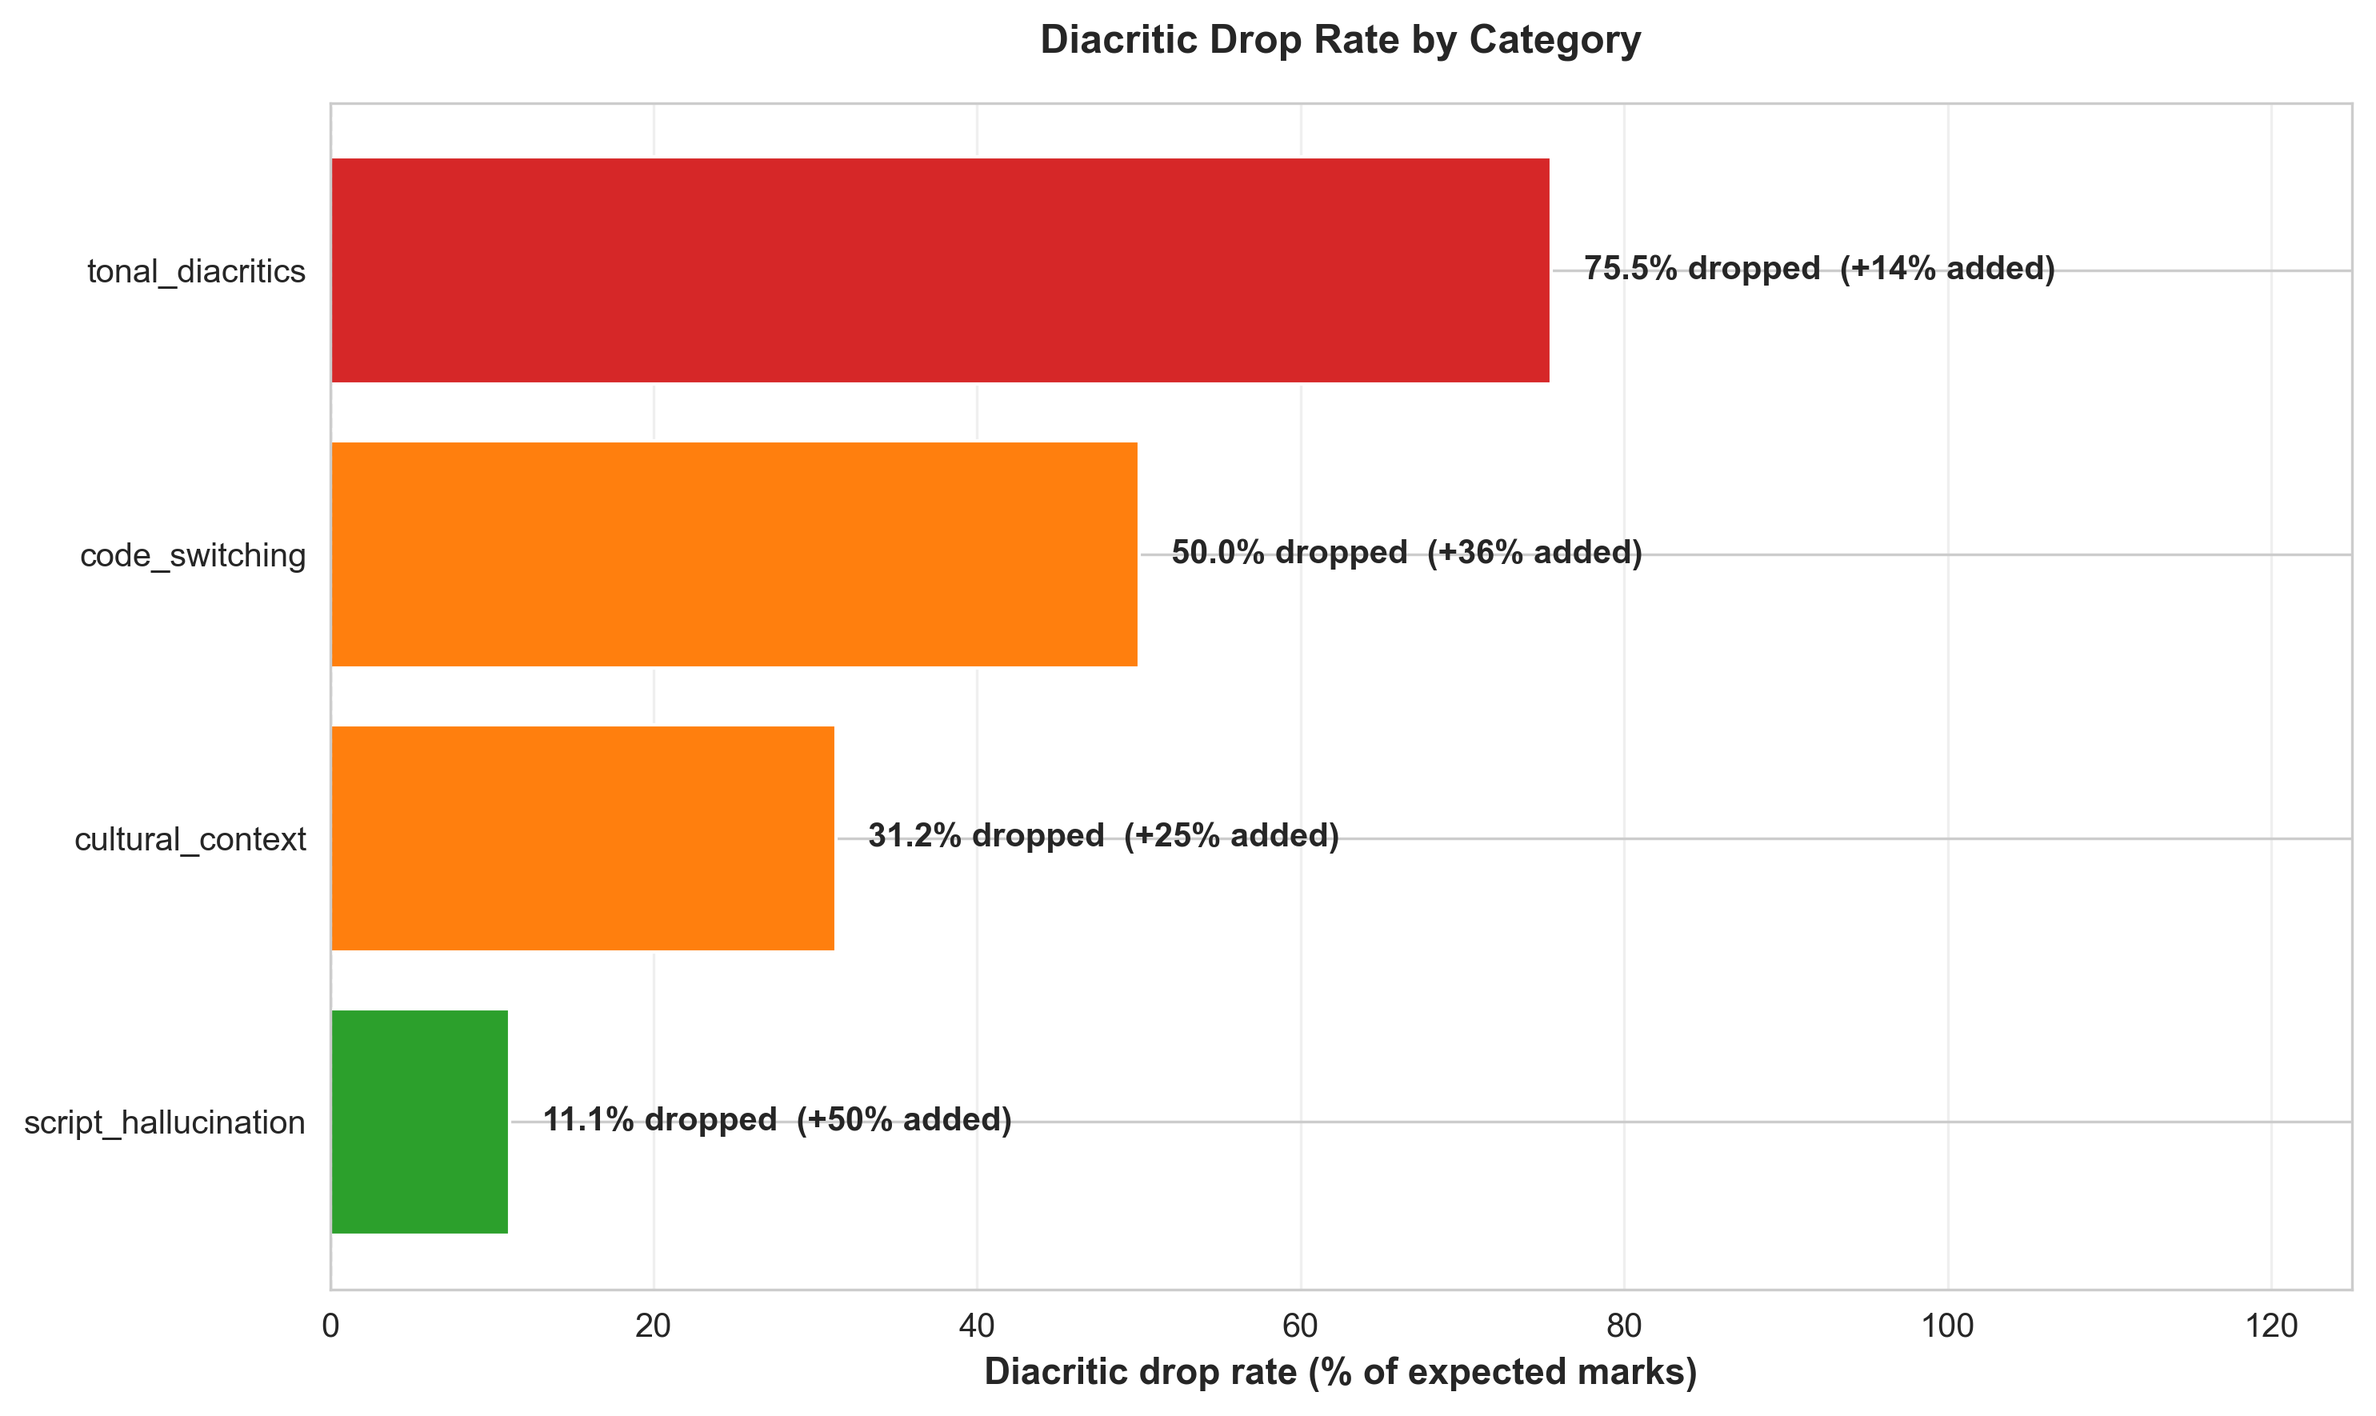
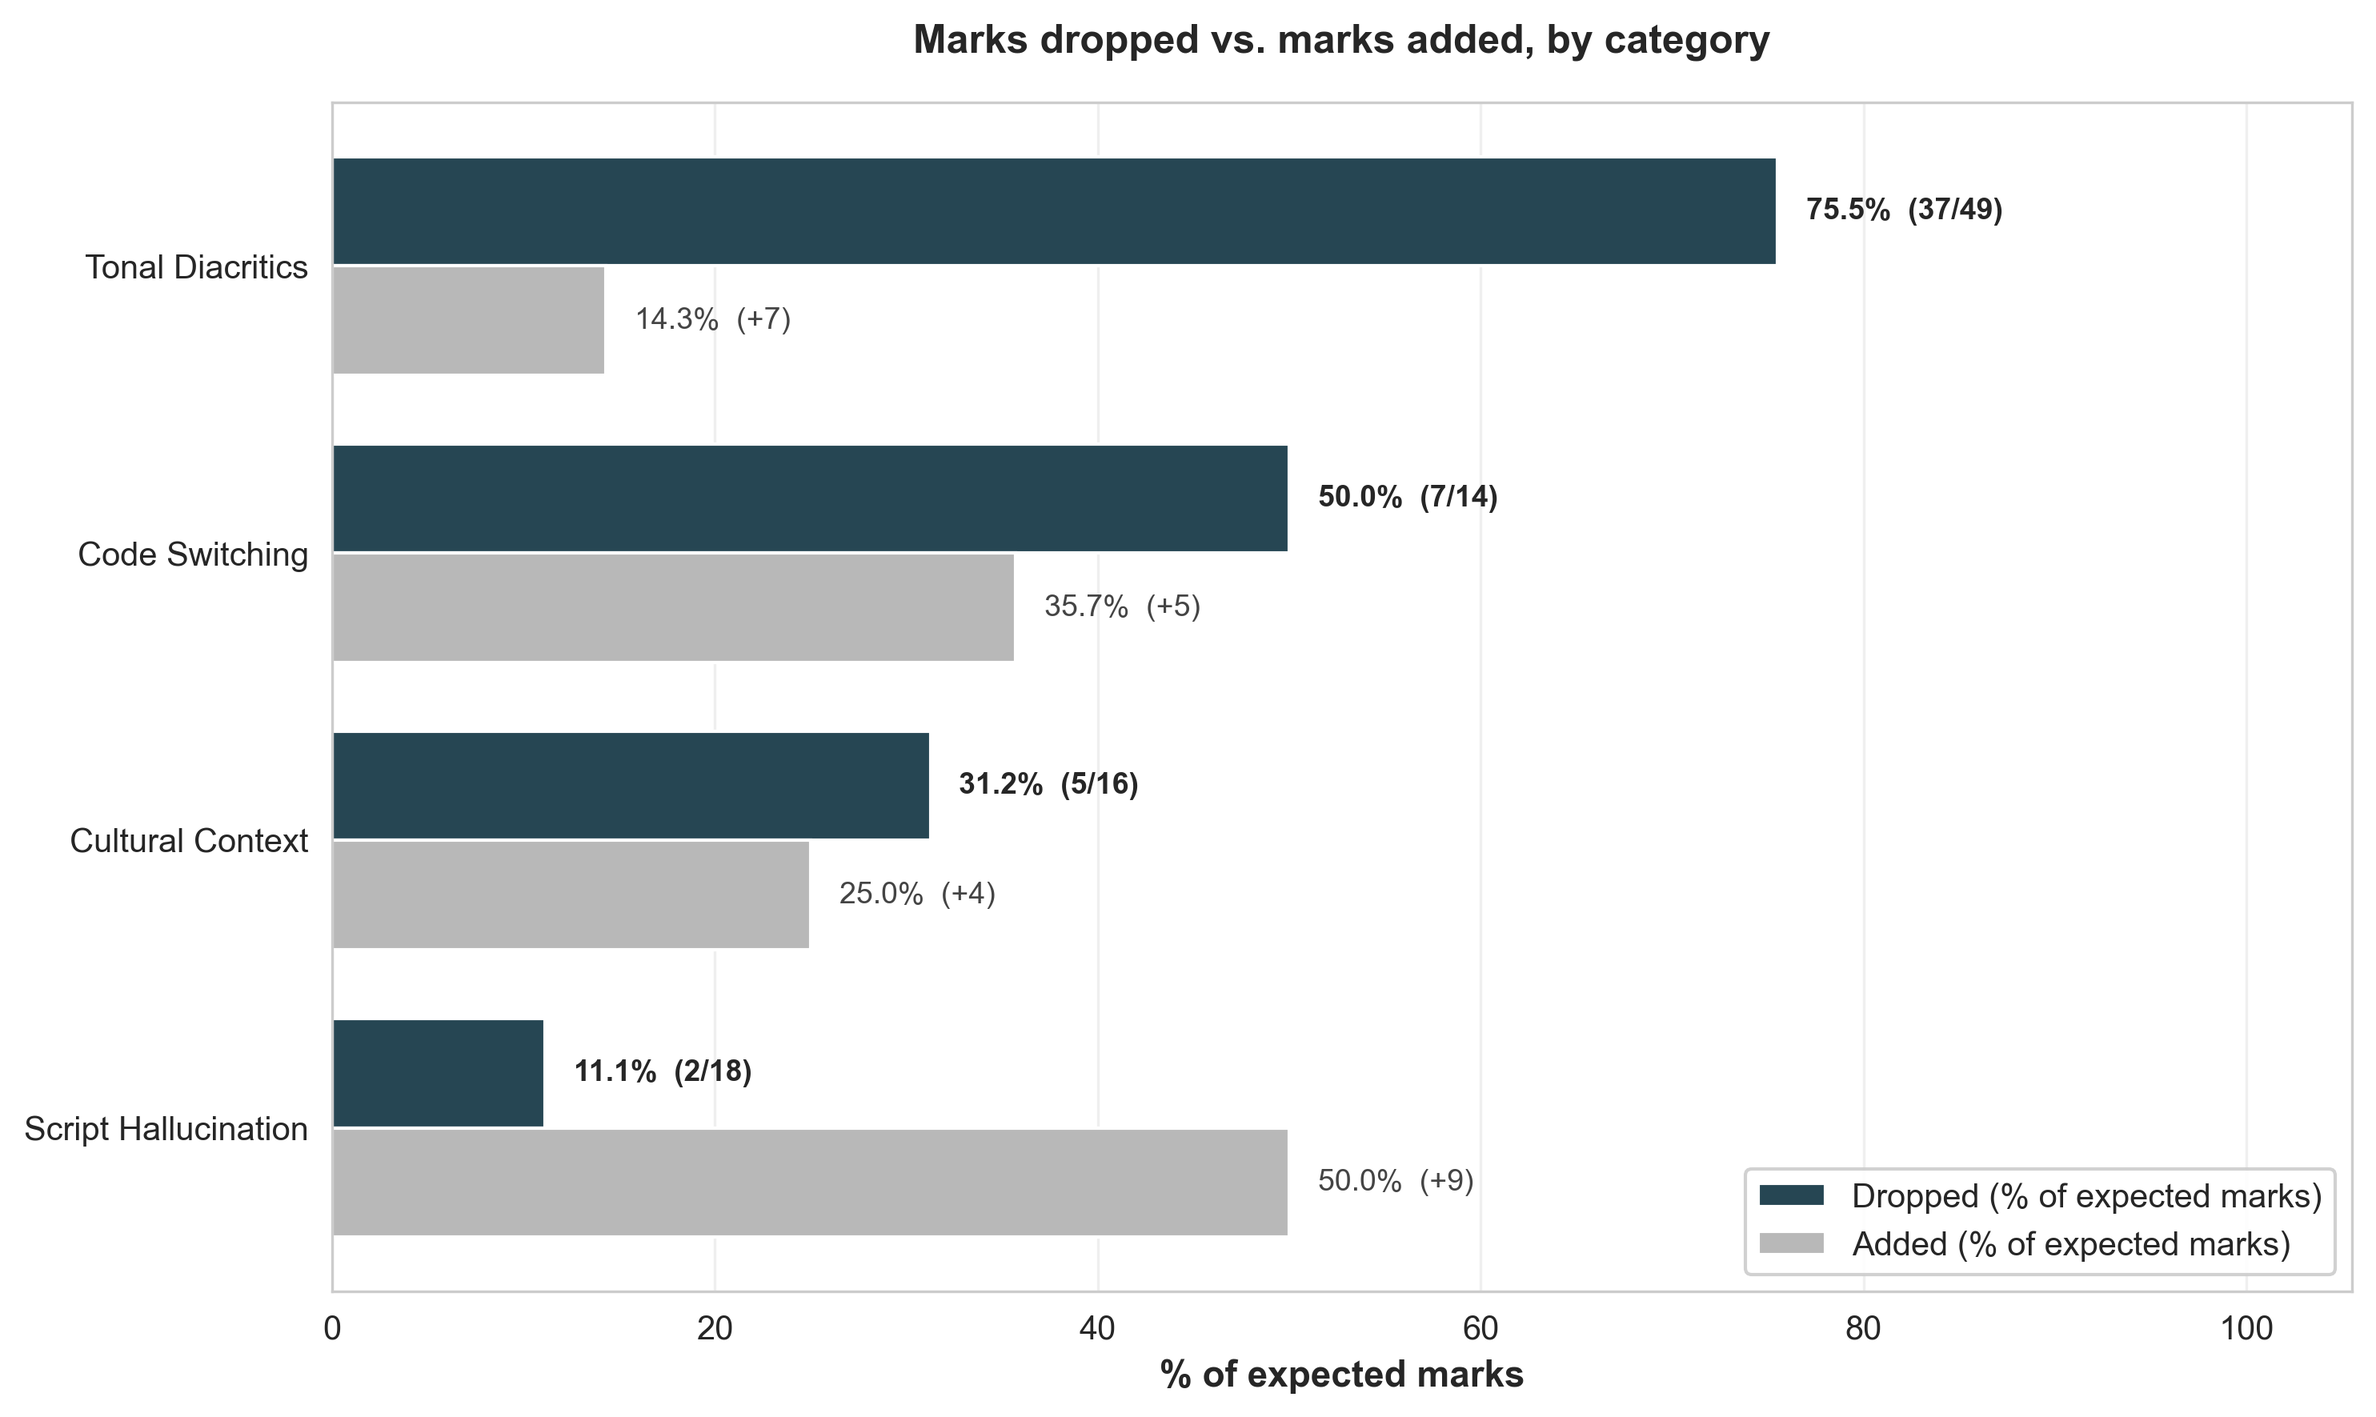
updated figures and `src/visualize.py`

diff --git a/src/visualize.py b/src/visualize.py
@@ -1,10 +1,10 @@
 """
 Visualization functions for ASR tonal fidelity analysis.
 
-Generates publication-quality figures for:
-- Diacritic drop rate by category (drops counted per clip, never netted)
-- CER vs drop rate scatter (per clip)
-- Bootstrap confidence intervals (clip-level resampling)
+Generates figures for:
+- Marks dropped vs. marks added by category (D and H counted per clip, never netted)
+- CER vs. drop rate scatter (per clip)
+- Drop rate with clip-level bootstrap confidence intervals
 """
 
 import matplotlib.pyplot as plt
@@ -12,7 +12,7 @@ import seaborn as sns
 import pandas as pd
 import numpy as np
 from pathlib import Path
-from typing import Optional
+from typing import Dict, Optional
 
 
 # Set publication-quality defaults
@@ -22,15 +22,31 @@ plt.rcParams['font.size'] = 10
 plt.rcParams['axes.labelsize'] = 11
 plt.rcParams['axes.titlesize'] = 12
 
-
+# Category colors are used only where categories are the thing being compared
+# (scatter, forest plot labels). The bar chart uses neutral dropped/added colors
+# so the two figures never give one color two meanings.
 CATEGORY_COLORS = {
     'tonal_diacritics': '#d62728',
     'code_switching': '#ff7f0e',
     'cultural_context': '#1f77b4',
     'script_hallucination': '#2ca02c',
 }
-DROPPED_COLOR = '#d62728'
-ADDED_COLOR = '#7f7f7f'
+DROPPED_COLOR = '#264653'   # dark slate
+ADDED_COLOR = '#b8b8b8'     # light grey
+
+
+def _pretty(name: str) -> str:
+    return name.replace('_', ' ').title()
+
+
+def _finish(fig, output_path):
+    plt.tight_layout()
+    if output_path:
+        plt.savefig(output_path, dpi=300, bbox_inches='tight')
+        print(f"Saved: {output_path}")
+        plt.close(fig)
+    else:
+        plt.show()
 
 
 def plot_loss_by_category(
@@ -61,29 +77,28 @@ def plot_loss_by_category(
     fig, ax = plt.subplots(figsize=figsize)
     y = np.arange(len(s))
     h = 0.38
-    ax.barh(y + h / 2, s['drop_rate'], height=h, color=DROPPED_COLOR, label='Dropped (% of expected marks)')
-    ax.barh(y - h / 2, s['added_rate'], height=h, color=ADDED_COLOR, label='Added (% of expected marks)')
+    ax.barh(y + h / 2, s['drop_rate'], height=h, color=DROPPED_COLOR,
+            label='Dropped (% of expected marks)')
+    ax.barh(y - h / 2, s['added_rate'], height=h, color=ADDED_COLOR,
+            label='Added (% of expected marks)')
 
     for i, (_, row) in enumerate(s.iterrows()):
-        ax.text(row['drop_rate'] + 1.5, i + h / 2, f"{row['drop_rate']:.1f}%  ({int(row['dropped'])}/{int(row['expected'])})",
+        ax.text(row['drop_rate'] + 1.5, i + h / 2,
+                f"{row['drop_rate']:.1f}%  ({int(row['dropped'])}/{int(row['expected'])})",
                 va='center', ha='left', fontsize=9, fontweight='bold')
-        ax.text(row['added_rate'] + 1.5, i - h / 2, f"{row['added_rate']:.1f}%  (+{int(row['added'])})",
+        ax.text(row['added_rate'] + 1.5, i - h / 2,
+                f"{row['added_rate']:.1f}%  (+{int(row['added'])})",
                 va='center', ha='left', fontsize=9, color='#444444')
 
     ax.set_yticks(y)
-    ax.set_yticklabels([c.replace('_', ' ').title() for c in s.index])
+    ax.set_yticklabels([_pretty(c) for c in s.index])
     ax.set_xlim(0, max(100, float(s[['drop_rate', 'added_rate']].values.max()) + 30))
     ax.set_xlabel('% of expected marks', fontweight='bold')
     ax.set_title('Marks dropped vs. marks added, by category', fontweight='bold', pad=15)
     ax.grid(axis='x', alpha=0.3)
     ax.grid(axis='y', visible=False)
     ax.legend(loc='lower right', framealpha=0.9)
-
-    plt.tight_layout()
-    if output_path:
-        plt.savefig(output_path, dpi=300, bbox_inches='tight')
-        print(f"Saved: {output_path}")
-    plt.close(fig) if output_path else plt.show()
+    _finish(fig, output_path)
 
 
 def plot_cer_vs_loss(
@@ -92,167 +107,163 @@ def plot_cer_vs_loss(
     figsize: tuple = (10, 6)
 ):
     """
-    Scatter plot of CER vs diacritic loss.
-    
+    Scatter plot of CER vs. per-clip drop rate.
+
+    Clips with no expected marks have no defined drop rate and are left out
+    (the figure says how many). Because clips carry only a handful of marks,
+    many drop rates are exactly 0% or 100%. Points are semi-transparent with an
+    outline so overlapping clips stay visible.
+
     Args:
-        df: DataFrame with 'cer' (or 'character_error_rate'), expected/produced counts, 'category'
+        df: DataFrame with 'cer' (or 'character_error_rate'), expected/produced
+            counts and 'category'
         output_path: Where to save figure (optional)
         figsize: Figure size in inches
     """
-    # Per-clip drop rate; clips with no expected marks have no defined rate
-    df = df[df['diacritics_expected'] > 0].copy()
-    df['dropped'] = (df['diacritics_expected'] - df['diacritics_produced']).clip(lower=0)
-    df['loss_rate'] = df['dropped'] / df['diacritics_expected'] * 100
     cer_col = 'cer' if 'cer' in df.columns else 'character_error_rate'
-    
-    # Create figure
+    n_total = len(df)
+    d = df[df['diacritics_expected'] > 0].copy()
+    n_excluded = n_total - len(d)
+    d['dropped'] = (d['diacritics_expected'] - d['diacritics_produced']).clip(lower=0)
+    d['drop_rate'] = d['dropped'] / d['diacritics_expected'] * 100
+    d['cer_pct'] = d[cer_col] * 100
+
     fig, ax = plt.subplots(figsize=figsize)
-    
-    # Color by category
-    categories = df['category'].unique()
+    categories = list(d['category'].unique())
     fallback = sns.color_palette("husl", len(categories))
-    colors = [CATEGORY_COLORS.get(c, fallback[i]) for i, c in enumerate(categories)]
-    
     for i, cat in enumerate(categories):
-        cat_data = df[df['category'] == cat]
-        ax.scatter(
-            cat_data[cer_col] * 100,
-            cat_data['loss_rate'],
-            label=cat.replace('_', ' ').title(),
-            alpha=0.7,
-            s=100,
-            color=colors[i]
-        )
-    
-    # Formatting
+        sub = d[d['category'] == cat]
+        color = CATEGORY_COLORS.get(cat, fallback[i])
+        ax.scatter(sub['cer_pct'], sub['drop_rate'], label=_pretty(cat), s=110,
+                   color=color, alpha=0.6, edgecolor='black', linewidth=0.8, zorder=3)
+
+    r = float(np.corrcoef(d['cer_pct'], d['drop_rate'])[0, 1]) if len(d) > 2 else float('nan')
+    ax.text(0.98, 0.16, f"Pearson r = {r:.2f} (n = {len(d)} clips)", transform=ax.transAxes,
+            ha='right', va='bottom', fontsize=9,
+            bbox=dict(boxstyle='round', facecolor='white', edgecolor='#cccccc', alpha=0.9))
+
     ax.set_xlabel('Character error rate (%)', fontweight='bold')
     ax.set_ylabel('Diacritic drop rate (%)', fontweight='bold')
-    ax.set_title('CER vs. Drop Rate (clips with expected marks)', fontweight='bold', pad=15)
+    ax.set_title('CER vs. drop rate, by clip', fontweight='bold', pad=15)
     ax.legend(loc='upper left', framealpha=0.9)
     ax.grid(alpha=0.3)
-    
-    plt.tight_layout()
-    
-    if output_path:
-        plt.savefig(output_path, dpi=300, bbox_inches='tight')
-        print(f"Saved: {output_path}")
-    
-    plt.close(fig) if output_path else plt.show()
+    fig.text(0.01, -0.02,
+             f"{n_excluded} of {n_total} clips have no expected marks and are not shown. "
+             "Rates sit at 0% or 100% because each clip carries only a few marks.",
+             fontsize=8, color='#555555', ha='left', va='top')
+    _finish(fig, output_path)
 
 
 def plot_bootstrap_ci(
-    bootstrap_results: dict,
+    bootstrap_results: Dict[str, object],
     output_path: Optional[str] = None,
     figsize: tuple = (10, 6),
+    n_clips: Optional[Dict[str, int]] = None,
     show_threshold: bool = False
 ):
     """
-    Forest plot of bootstrap confidence intervals.
-    
+    Forest plot of drop rate with 95% bootstrap confidence intervals.
+
+    Categories are sorted by drop rate (highest on top); 'overall' is shown
+    last, separated by a gap. The axis starts at 0 because a rate cannot be
+    negative, which is also why several intervals stop exactly at 0.
+
     Args:
-        bootstrap_results: Dict mapping category -> (point, lo, hi), or the dict
-            returned by evaluate.bootstrap_ci (keys point, lo, hi)
+        bootstrap_results: Dict mapping group -> (point, lo, hi), or the dict
+            returned by evaluate.bootstrap_ci (keys point, lo, hi). A group
+            named 'overall' is placed last.
         output_path: Where to save figure (optional)
         figsize: Figure size in inches
+        n_clips: Optional dict group -> number of clips, shown in the labels
+        show_threshold: Draw a 50% reference line (a convention, not a test)
     """
-    # Prepare data
     def _t(v):
         return (v['point'], v['lo'], v['hi']) if isinstance(v, dict) else tuple(v)
+
     vals = {k: _t(v) for k, v in bootstrap_results.items()}
-    categories = list(vals.keys())
-    points = [v[0] * 100 for v in vals.values()]
-    lows = [v[1] * 100 for v in vals.values()]
-    highs = [v[2] * 100 for v in vals.values()]
-    errors = [[p - l for p, l in zip(points, lows)],
-              [h - p for h, p in zip(highs, points)]]
-    
-    # Create figure
+    cats = sorted([k for k in vals if k != 'overall'], key=lambda k: -vals[k][0])
+    rows = cats + (['overall'] if 'overall' in vals else [])
+    ypos = list(range(len(cats))) + ([len(cats) + 0.7] if 'overall' in vals else [])
+
     fig, ax = plt.subplots(figsize=figsize)
-    
-    # Plot error bars
-    y_pos = np.arange(len(categories))
-    ax.errorbar(
-        points, y_pos, xerr=errors,
-        fmt='o', markersize=8, capsize=5, capthick=2,
-        color='#1f77b4', ecolor='#1f77b4', alpha=0.8
-    )
-    
-    # Optional 50% reference line (a convention, not a statistical threshold)
+    for name, y in zip(rows, ypos):
+        p, lo, hi = (x * 100 for x in vals[name])
+        color = CATEGORY_COLORS.get(name, '#444444')
+        ax.errorbar(p, y, xerr=[[p - lo], [hi - p]], fmt='o', markersize=9, capsize=5,
+                    capthick=2, color=color, ecolor=color, alpha=0.85, zorder=3, clip_on=False)
+        ax.text(102, y, f"{p:.1f}%  [{lo:.0f}, {hi:.0f}]",
+                fontsize=9, color='#333333', va='center', ha='left', clip_on=False)
+
+    labels = []
+    for name in rows:
+        lab = _pretty(name)
+        if n_clips and name in n_clips:
+            lab += f"\n(n = {n_clips[name]} clips)"
+        labels.append(lab)
+    ax.set_yticks(ypos)
+    ax.set_yticklabels(labels)
+    ax.invert_yaxis()
+    ax.set_xlim(0, 100)
+    ax.set_xticks(range(0, 101, 20))
+    ax.set_clip_on(False)
+
     if show_threshold:
         ax.axvline(50, color='red', linestyle='--', linewidth=1.5, alpha=0.5, label='50% reference')
-    
-    # Formatting
-    ax.set_yticks(y_pos)
-    ax.set_yticklabels([c.replace('_', ' ').title() for c in categories])
+        ax.legend(loc='lower right')
+
     ax.set_xlabel('Diacritic drop rate (%)', fontweight='bold')
     ax.set_title('Drop rate, 95% bootstrap CI (clip-level resampling)', fontweight='bold', pad=15)
-    if show_threshold:
-        ax.legend(loc='lower right')
     ax.grid(axis='x', alpha=0.3)
-    
-    plt.tight_layout()
-    
-    if output_path:
-        plt.savefig(output_path, dpi=300, bbox_inches='tight')
-        print(f"Saved: {output_path}")
-    
-    plt.close(fig) if output_path else plt.show()
+    ax.grid(axis='y', visible=False)
+    fig.text(0.01, -0.02,
+             "Intervals stop at 0% because a rate cannot be negative. With 5 to 6 clips per category "
+             "the non-tonal intervals are very wide.",
+             fontsize=8, color='#555555', ha='left', va='top')
+    _finish(fig, output_path)
 
 
 def generate_all_figures(
     df: pd.DataFrame,
     bootstrap_results: dict,
-    output_dir: str = "visualizations"
+    output_dir: str = "visualizations",
+    n_clips: Optional[Dict[str, int]] = None
 ):
     """
     Generate all figures and save to output directory.
-    
+
     Args:
         df: DataFrame with analysis results
-        bootstrap_results: Bootstrap CI results
+        bootstrap_results: Bootstrap CI results (group -> (point, lo, hi) or dict)
         output_dir: Directory to save figures
+        n_clips: Optional group -> clip count for the forest plot labels
     """
     output_path = Path(output_dir)
     output_path.mkdir(exist_ok=True, parents=True)
-    
+
     print("Generating figures...")
-    
-    # Figure 1: Loss by category
-    plot_loss_by_category(
-        df,
-        output_path=output_path / "fig1_drop_rate_by_category.png"
-    )
-    
-    # Figure 2: CER vs loss
-    plot_cer_vs_loss(
-        df,
-        output_path=output_path / "fig2_cer_vs_drop_rate.png"
-    )
-    
-    # Figure 3: Bootstrap CIs
-    plot_bootstrap_ci(
-        bootstrap_results,
-        output_path=output_path / "fig3_bootstrap_95_ci.png"
-    )
-    
+    plot_loss_by_category(df, output_path=output_path / "fig1_drop_rate_by_category.png")
+    plot_cer_vs_loss(df, output_path=output_path / "fig2_cer_vs_drop_rate.png")
+    plot_bootstrap_ci(bootstrap_results, output_path=output_path / "fig3_bootstrap_95_ci.png",
+                      n_clips=n_clips)
     print(f"\nAll figures saved to: {output_path}")
 
 
 if __name__ == "__main__":
     import sys
-    
+
     if len(sys.argv) < 2:
-        print("Usage: python visualize.py <metadata_analyzed.csv>")
+        print("Usage: python visualize.py <metadata.csv> [output_dir]")
         sys.exit(1)
-    
+
     from evaluate import add_clip_columns, bootstrap_ci, stat_drop_rate
 
-    # Load data and compute everything from the data (no hard-coded results)
+    # Everything is computed from the data (no hard-coded results)
     df = add_clip_columns(pd.read_csv(sys.argv[1]))
     bootstrap_results = {'overall': bootstrap_ci(df, stat_drop_rate)}
+    counts = {'overall': len(df)}
     for cat, g in df.groupby('category'):
         bootstrap_results[cat] = bootstrap_ci(g, stat_drop_rate)
+        counts[cat] = len(g)
 
-    # Generate all figures
     output_dir = sys.argv[2] if len(sys.argv) > 2 else "visualizations"
-    generate_all_figures(df, bootstrap_results, output_dir)
+    generate_all_figures(df, bootstrap_results, output_dir, n_clips=counts)
